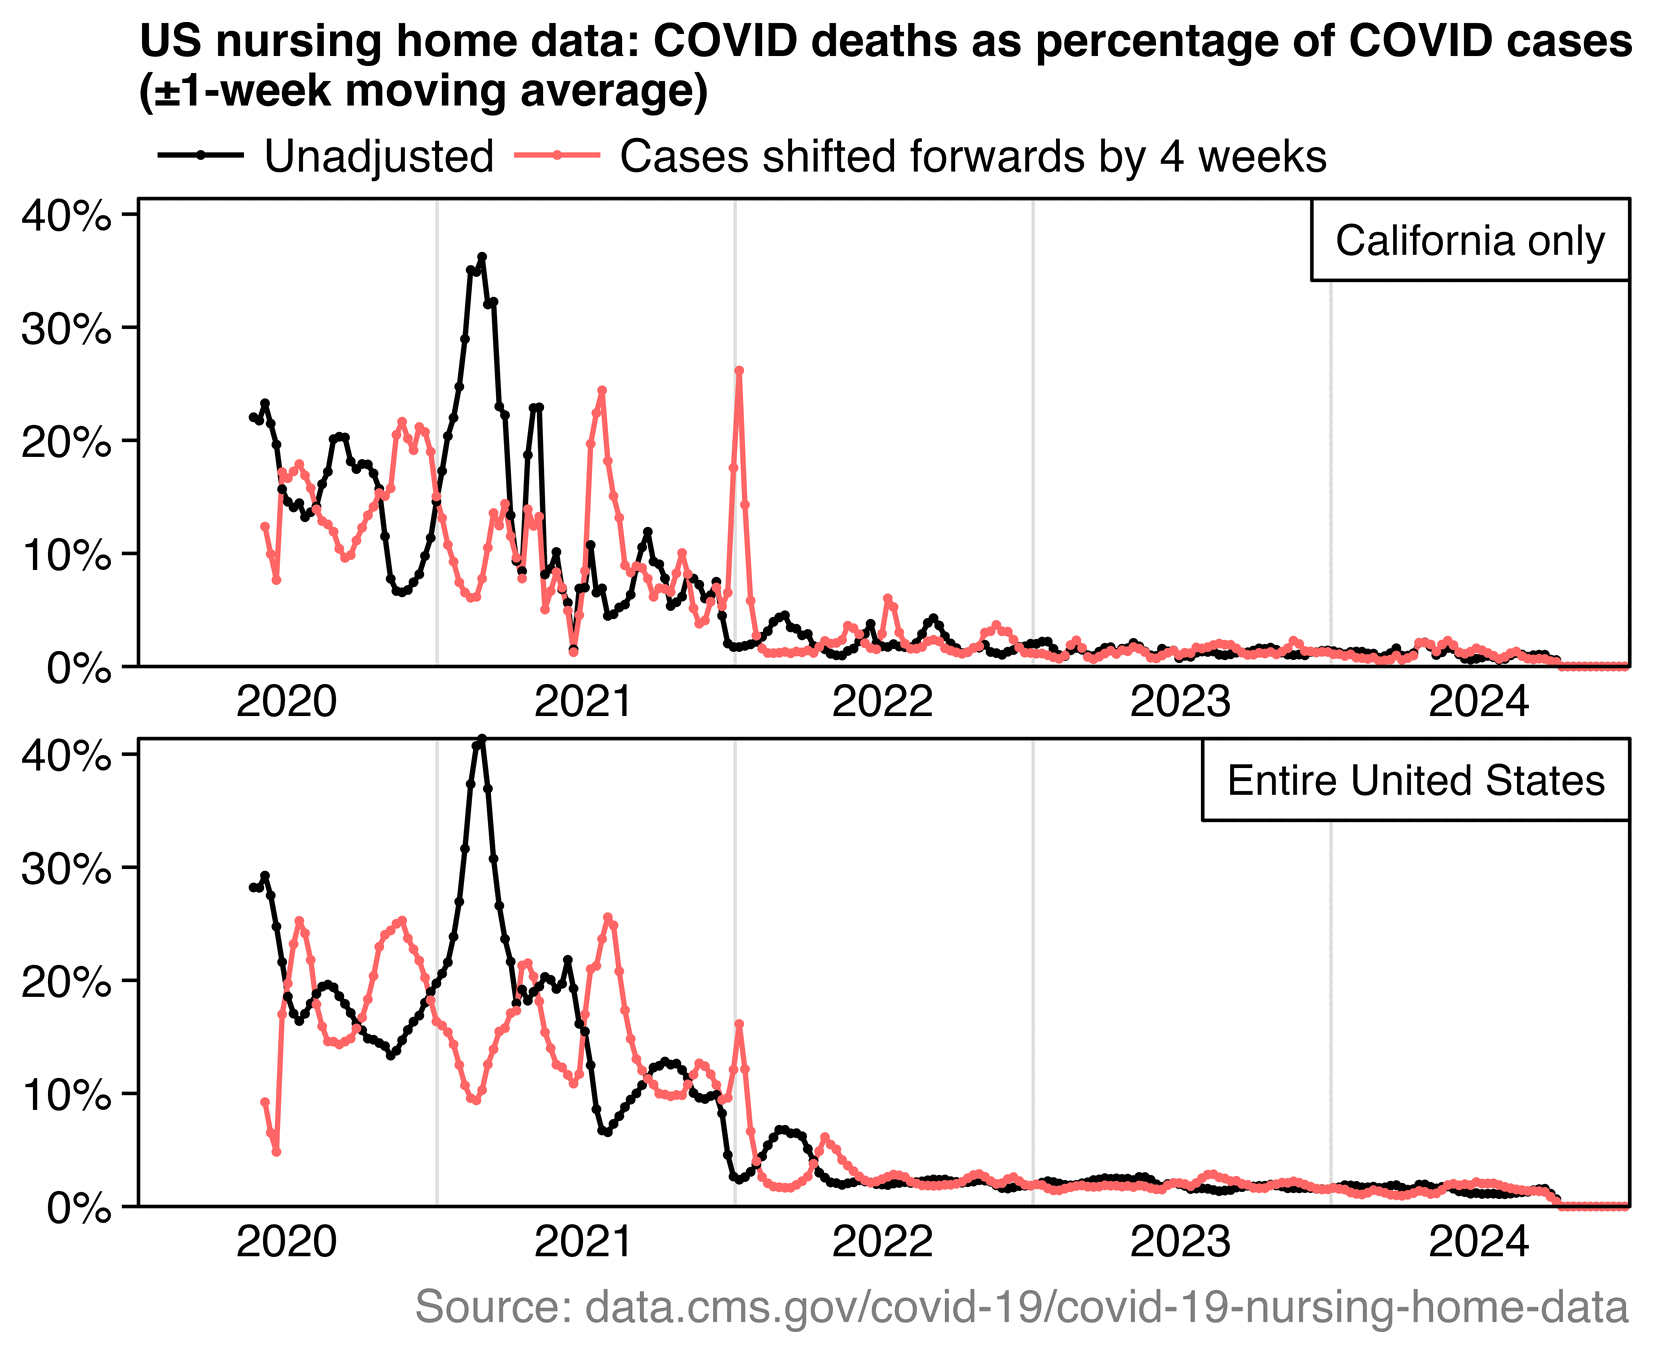
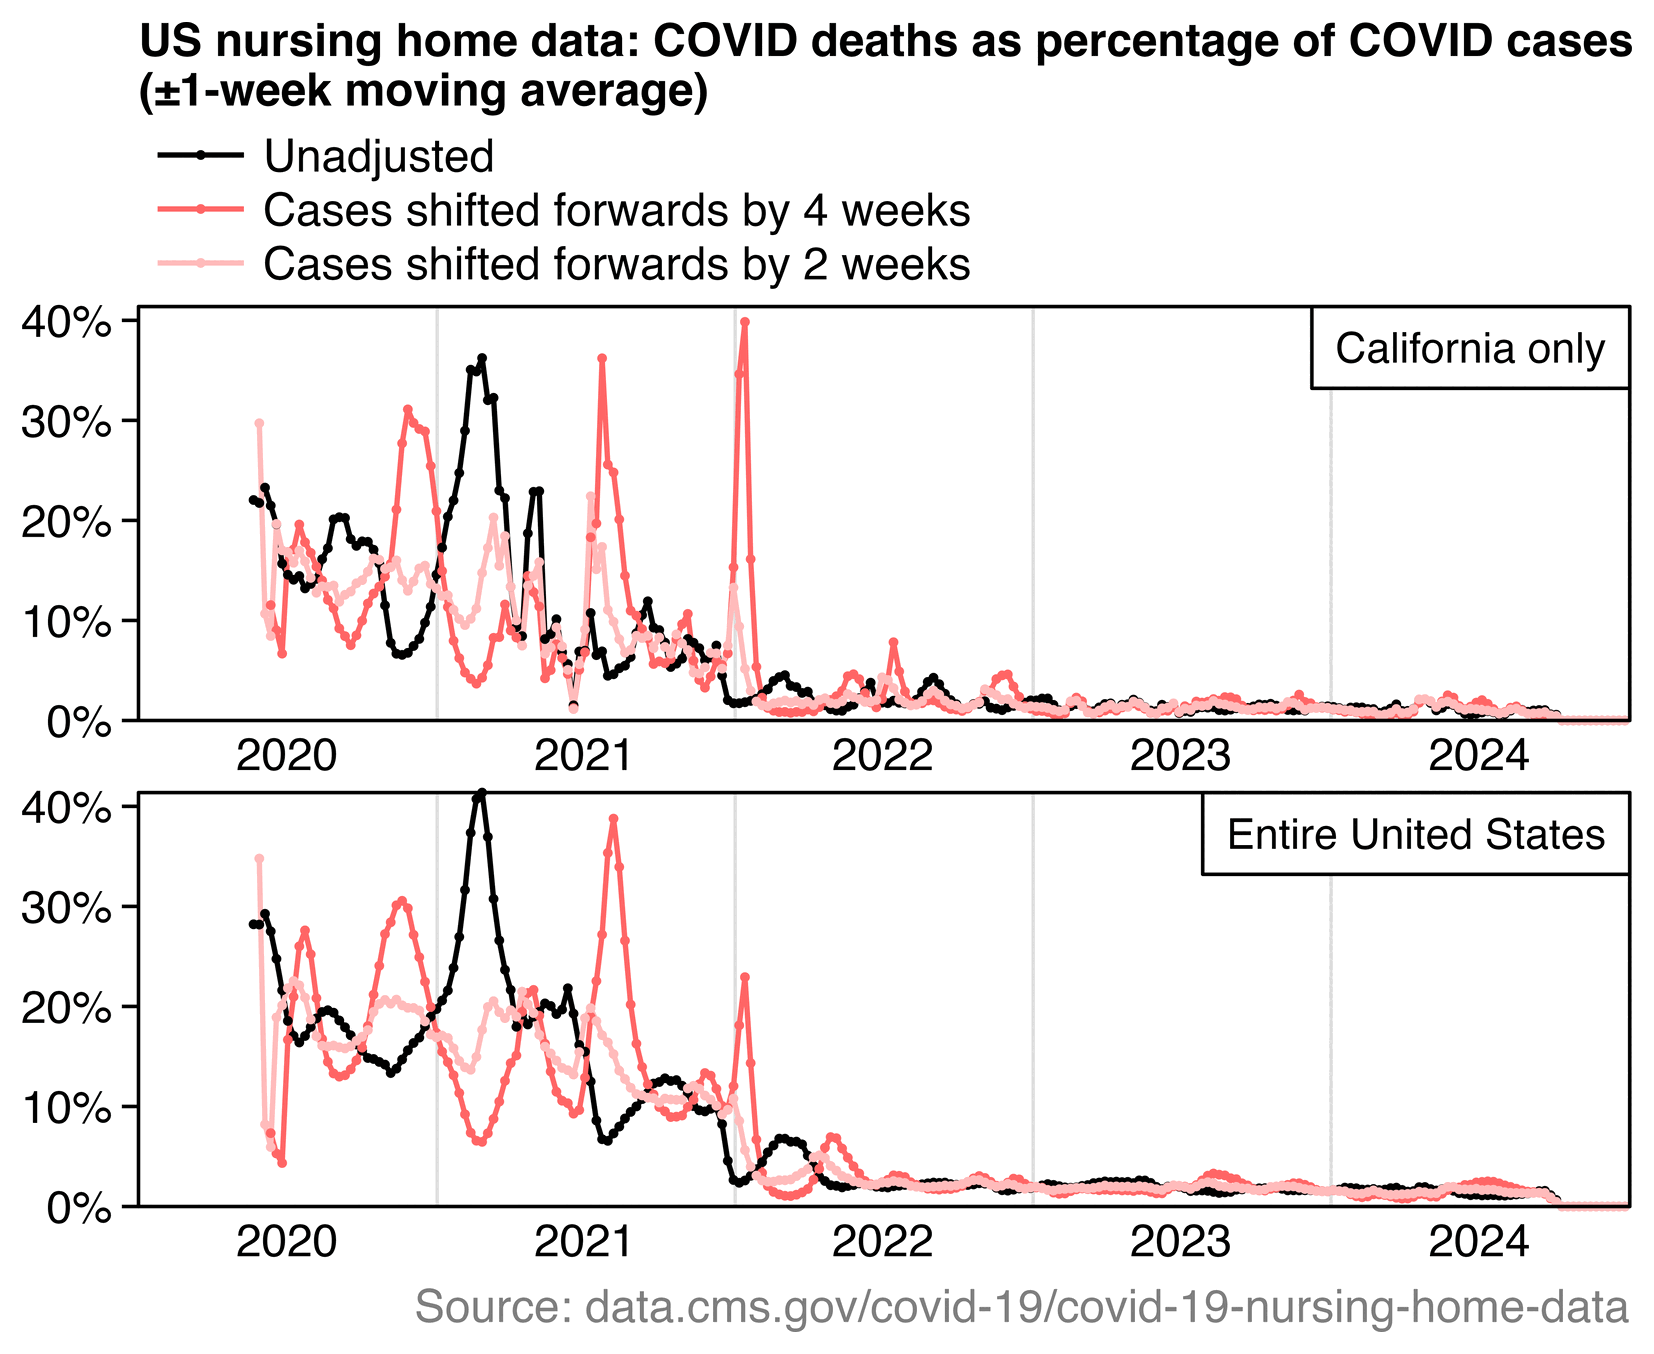
a

diff --git a/rootclaim2.html b/rootclaim2.html
@@ -457,7 +457,7 @@ system(&quot;magick 1.png -trim -resize 25% -bordercolor white -border 22 -color
 <div class="width8">
 <img src="i/rootclaim-nursingcfr.png">
 </div>
-<p>In the next plot which shows non-cumulative CFR instead of cumulative CFR, the black unadjusted line has a big spike during the tail end of the COVID wave around February 2021, because by February 2021 there were no longer as many people with a new case as during the previous weeks, but people who had acquired a new case during the previous weeks were still dying from COVID. But in the red line where I shifted the cases 4 weeks forwards, the CFR now had a big drop between December 2020 and January 2021:</p>
+<p>In the next plot which shows non-cumulative CFR instead of cumulative CFR, the black unadjusted line has a big spike during the tail end of the COVID wave around February 2021, because by February 2021 there were no longer as many people with a new case as during the previous weeks, but people who had acquired a new case during the previous weeks were still dying from COVID. But in the red line where I shifted the cases 4 weeks forwards, the CFR now had a big drop between December 2020 and January 2021. But the 4-week shift is too long because the average duration between case onset and death is less than 4 weeks, so when I shifted the cases only 2 weeks forwards instead, the line for the CFR became more flat, but the CFR still went down during the first weeks of 2021:</p>
 <div class="width6">
 <img src="i/rootclaim-nursingcfr-6.png">
 </div>
